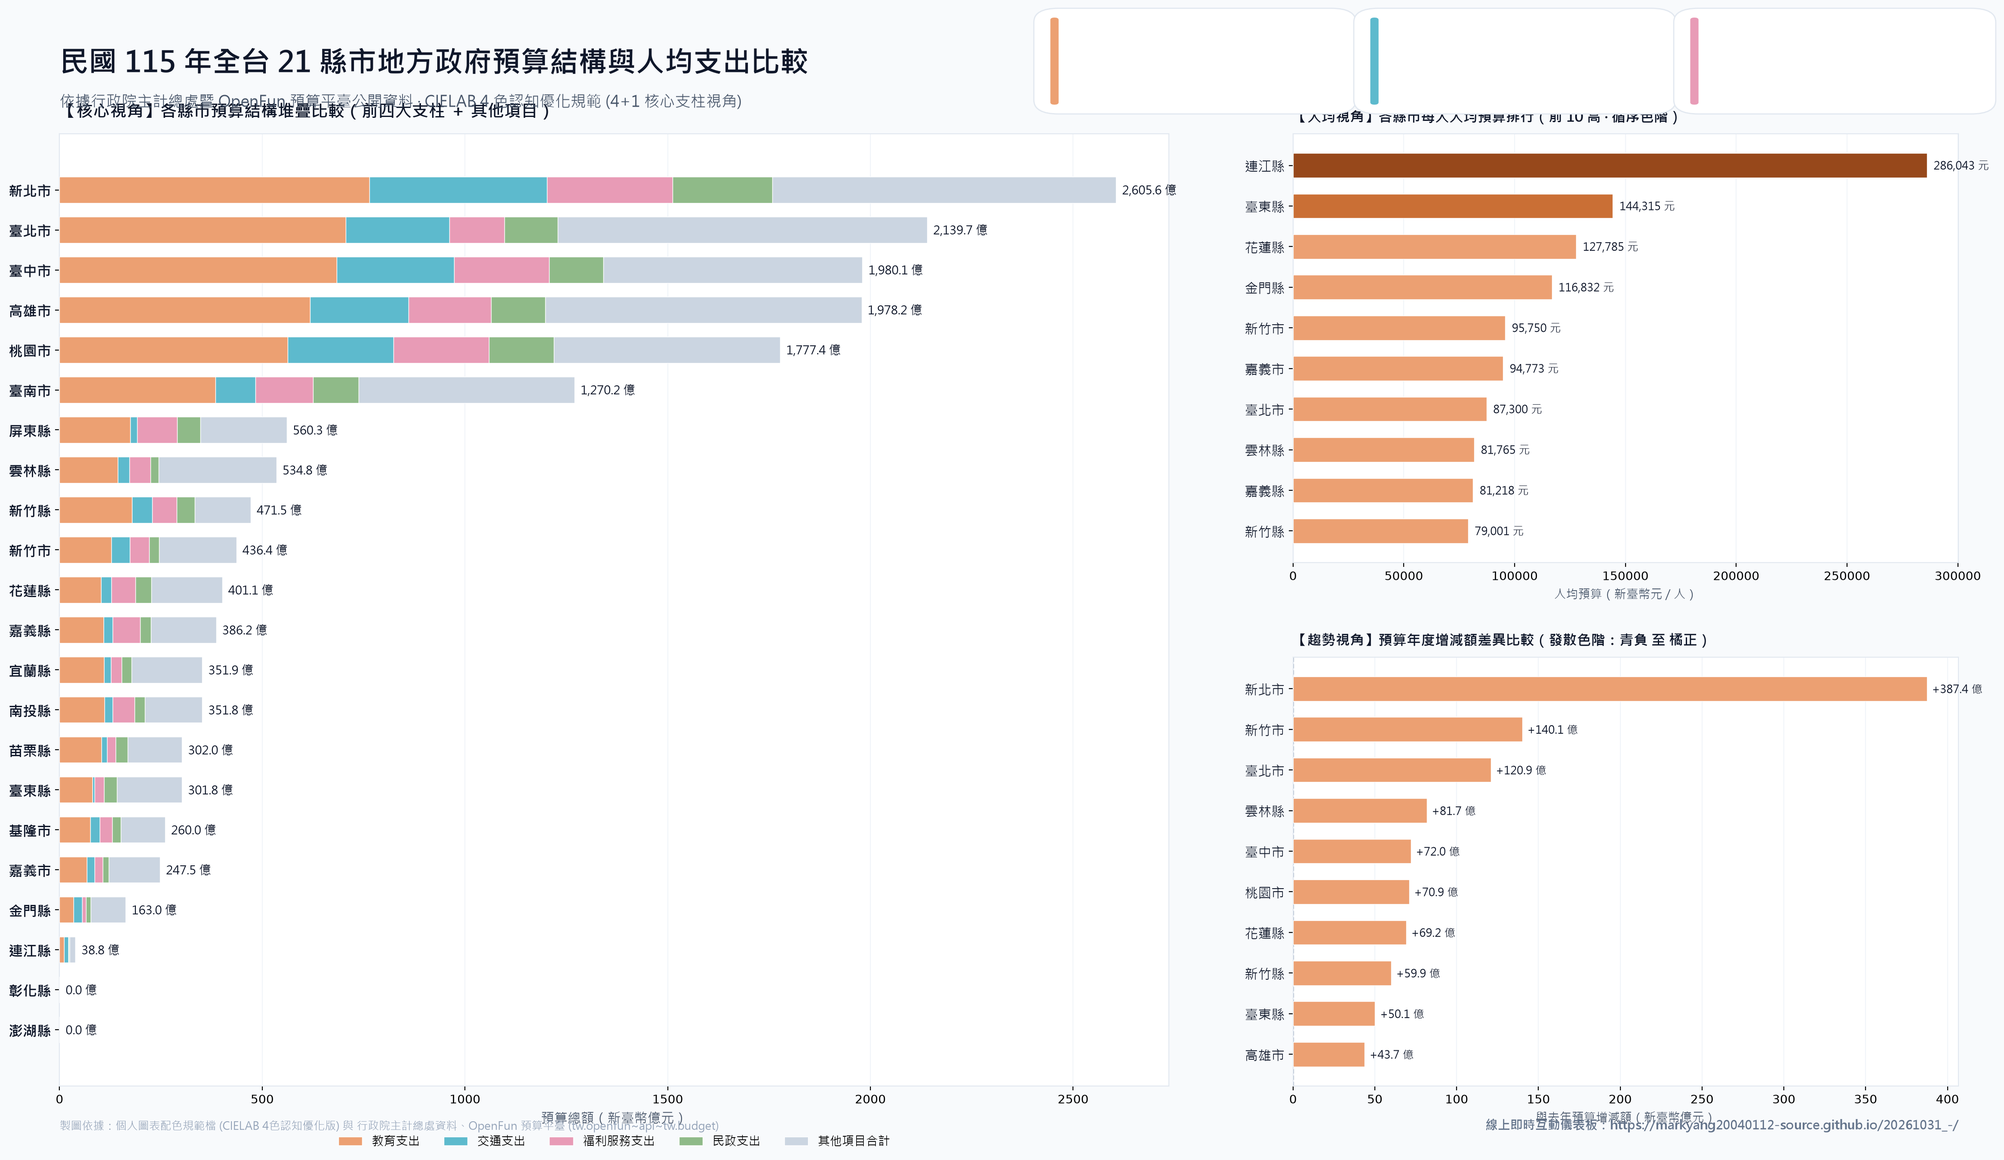
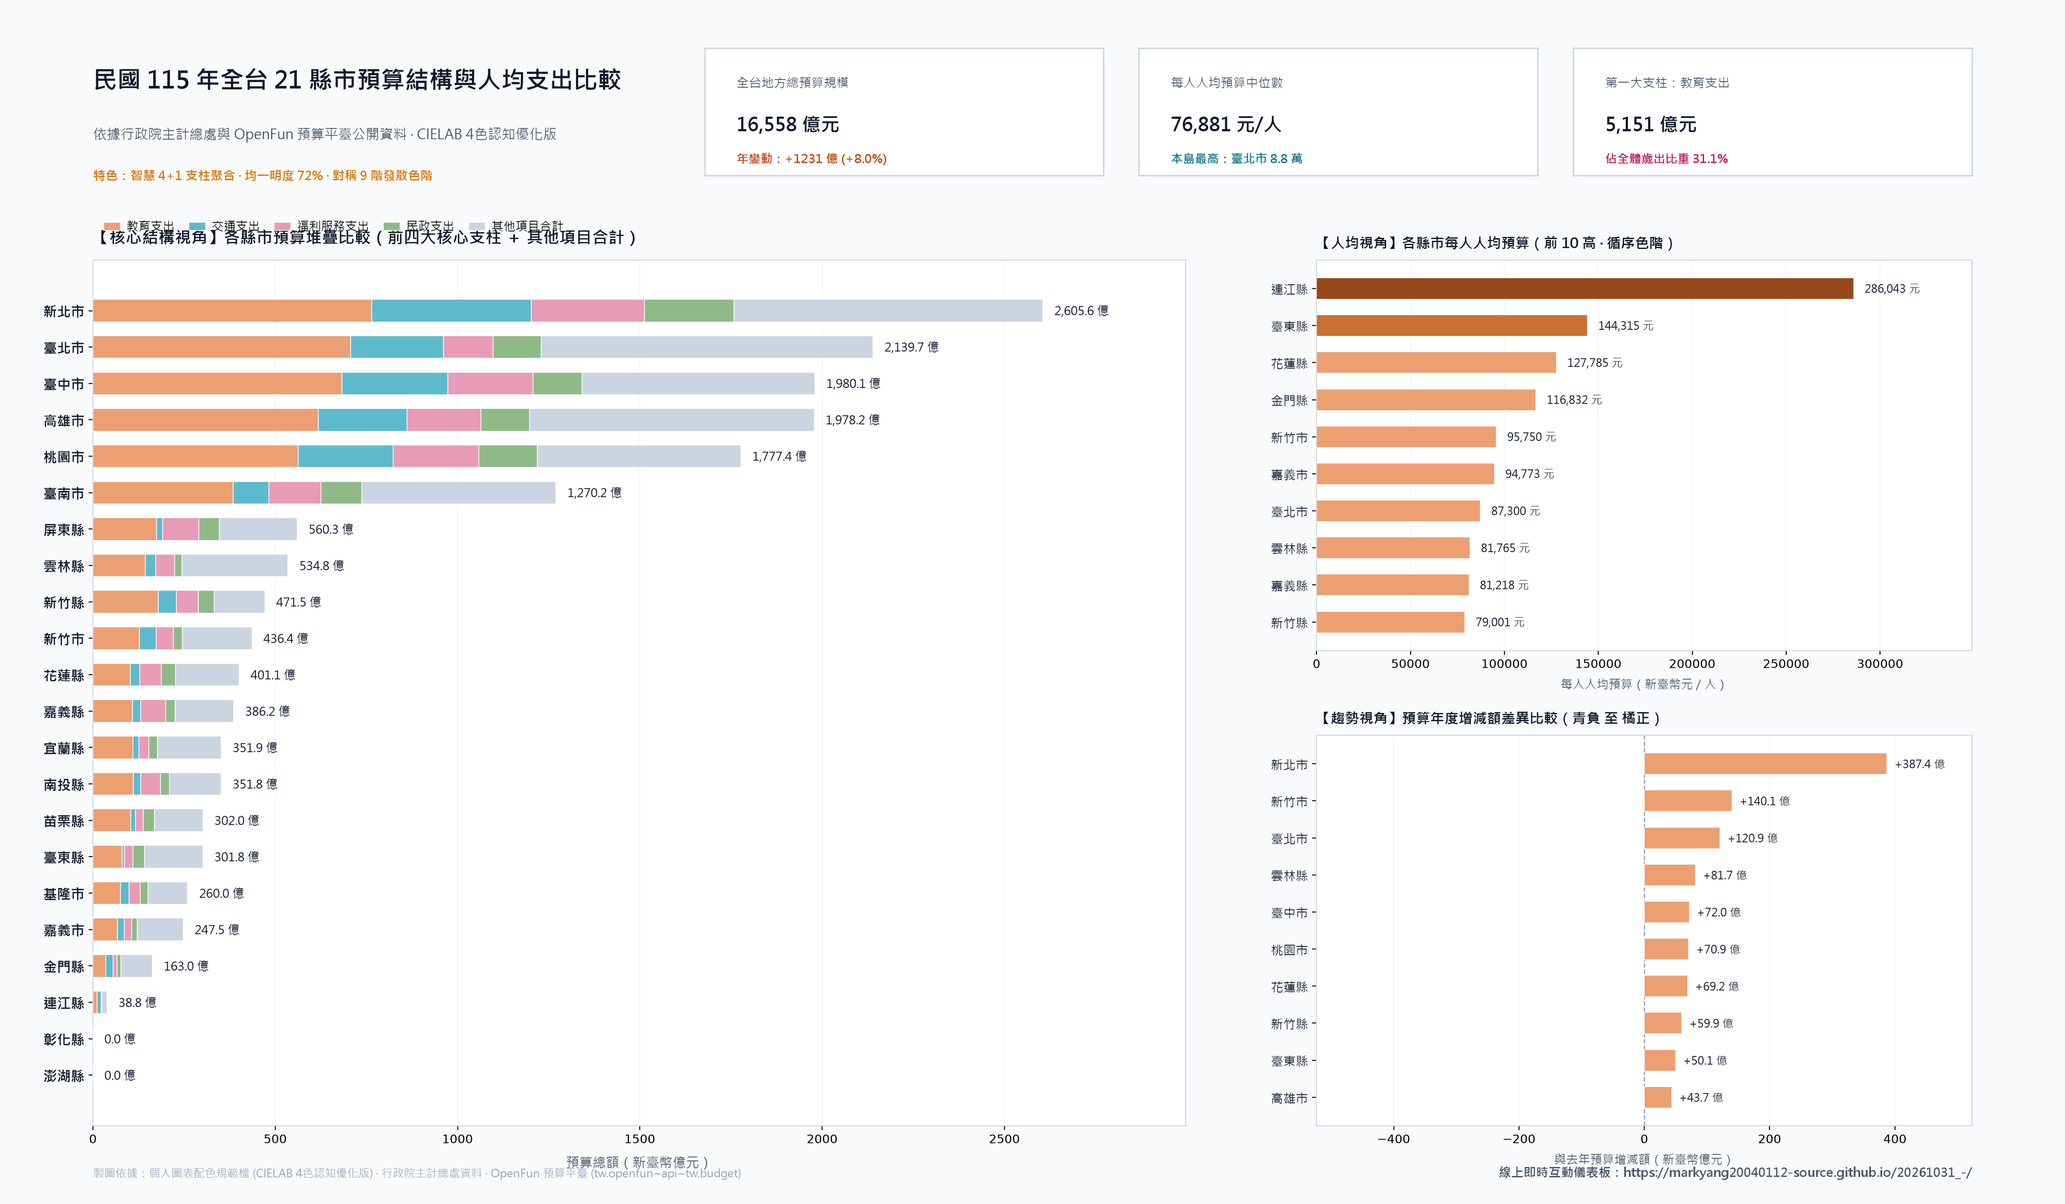
fix(chart): eliminate text overlap and remove misaligned floating header box

diff --git a/reading_sessions/20261031_全國預算比較儀表板/generate_chart.py b/reading_sessions/20261031_全國預算比較儀表板/generate_chart.py
@@ -1,18 +1,17 @@
 import json
 import matplotlib.pyplot as plt
 import matplotlib.font_manager as fm
-import matplotlib.patches as patches
 import numpy as np
 import os
 
-# 1. 設置中文字體
+# 1. 設置字體
 font_path = "C:/Windows/Fonts/msjh.ttc"
 if not os.path.exists(font_path):
     font_path = "C:/Windows/Fonts/NotoSansTC-VF.ttf"
 prop = fm.FontProperties(fname=font_path)
 prop_bold = fm.FontProperties(fname="C:/Windows/Fonts/msjhbd.ttc" if os.path.exists("C:/Windows/Fonts/msjhbd.ttc") else font_path, weight='bold')
 
-# 2. 載入 115 年資料
+# 2. 載入資料
 data_file = "reading_sessions/20261031_全國預算比較儀表板/data/budget_data.json"
 with open(data_file, "r", encoding="utf-8") as f:
     d = json.load(f)
@@ -20,8 +19,6 @@ with open(data_file, "r", encoding="utf-8") as f:
 key = "115_exp"
 records = d["records"][key]
 population = d["population"]
-
-# 排除中央，取 21 縣市
 counties = [c for c in d["counties"] if c != "中央"]
 
 # 計算 Top 4 政事別
@@ -34,7 +31,7 @@ sorted_cats = sorted(cat_totals.keys(), key=lambda k: cat_totals[k], reverse=Tru
 top4_cats = sorted_cats[:4]
 other_cats = sorted_cats[4:]
 
-# 準備每個縣市的數據
+# 整理縣市資料
 county_stats = []
 for c in counties:
     rec = records.get(c, {})
@@ -49,50 +46,16 @@ for c in counties:
     
     county_stats.append({
         "county": c,
-        "total": tot / 1e8, # 億元
-        "diff": diff / 1e8, # 億元
+        "total": tot / 1e8,
+        "diff": diff / 1e8,
         "diff_rate": diff_rate,
-        "per_capita": per_capita, # 元/人
+        "per_capita": per_capita,
         "top4": [v / 1e8 for v in top4_vals],
         "other": other_val / 1e8
     })
 
-# 依總預算降序排序
 county_stats.sort(key=lambda x: x["total"], reverse=True)
 
-# 色彩配置 (個人規範)
-COLORS = {
-    "c1": "#ECA072", # 暖杏蜜橘
-    "c2": "#5DBACD", # 霧靄青藍
-    "c3": "#E89BB6", # 落櫻粉黛
-    "c4": "#8FBA88", # 鼠尾草綠
-    "other": "#CBD5E1", # 典雅灰
-    "bg": "#F8FAFC",
-    "card": "#FFFFFF",
-    "border": "#E2E8F0",
-    "text_dark": "#0F172A",
-    "text_muted": "#475569"
-}
-
-# 建立畫布 (高解析度寬螢幕 16:9, 2400 x 1350 px)
-fig = plt.figure(figsize=(24, 13.5), dpi=100)
-fig.patch.set_facecolor(COLORS["bg"])
-
-# 使用 GridSpec 規劃三欄佈局
-# [ Header ]
-# [ Left: 4+1 堆疊結構圖 (佔 60% 寬度) ] | [ Right: 人均榜 + 增減發散 (佔 40% 寬度) ]
-# [ Footer: 說明與右下角網址 ]
-gs = fig.add_gridspec(2, 2, width_ratios=[1.25, 0.75], height_ratios=[1, 1],
-                       left=0.04, right=0.96, top=0.88, bottom=0.06,
-                       wspace=0.14, hspace=0.22)
-
-ax_main = fig.add_subplot(gs[:, 0]) # 左側大圖 (跨兩行)
-ax_percap = fig.add_subplot(gs[0, 1]) # 右上：人均榜
-ax_diff = fig.add_subplot(gs[1, 1]) # 右下：年增減
-
-# ==========================================
-# 頂部 Header & KPI 卡片
-# ==========================================
 grand_total = sum(x["total"] for x in county_stats)
 grand_diff = sum(x["diff"] for x in county_stats)
 grand_rate = (grand_diff / (grand_total - grand_diff)) * 100
@@ -100,42 +63,87 @@ med_percap = np.median([x["per_capita"] for x in county_stats])
 top_cat_sum = sum(x["top4"][0] for x in county_stats)
 top_cat_ratio = (top_cat_sum / grand_total) * 100
 
-# 標題文字
-fig.text(0.04, 0.955, "民國 115 年全台 21 縣市地方政府預算結構與人均支出比較",
-         fontproperties=prop_bold, fontsize=24, color=COLORS["text_dark"], va="top")
-fig.text(0.04, 0.915, "依據行政院主計總處暨 OpenFun 預算平臺公開資料 · CIELAB 4 色認知優化規範 (4+1 核心支柱視角)",
-         fontproperties=prop, fontsize=13, color=COLORS["text_muted"], va="top")
+# 色彩配置
+COLORS = {
+    "c1": "#ECA072",     # 暖杏蜜橘
+    "c2": "#5DBACD",     # 霧靄青藍
+    "c3": "#E89BB6",     # 落櫻粉黛
+    "c4": "#8FBA88",     # 鼠尾草綠
+    "other": "#CBD5E1",  # 典雅灰
+    "bg": "#F8FAFC",
+    "card": "#FFFFFF",
+    "border": "#CBD5E1",
+    "text_dark": "#0F172A",
+    "text_muted": "#475569"
+}
 
-# KPI 指標徽章 (右上方)
-kpis = [
-    ("全台地方總預算", f"{grand_total:,.0f} 億元", f"年變動 +{grand_diff:.0f} 億 (+{grand_rate:.1f}%)", "#ECA072"),
-    ("每人人均預算中位數", f"{med_percap:,.0f} 元/人", "本島最高：臺北市 8.8 萬", "#5DBACD"),
-    (f"第一大支柱：{top4_cats[0]}", f"{top_cat_sum:,.0f} 億元", f"佔全體歲出 {top_cat_ratio:.1f}%", "#E89BB6")
-]
+# 建立畫布：24 x 14 英寸 (高解析度)
+fig = plt.figure(figsize=(24, 14), dpi=120)
+fig.patch.set_facecolor(COLORS["bg"])
 
-kpi_start_x = 0.52
-kpi_w = 0.14
-for i, (k_title, k_val, k_sub, k_col) in enumerate(kpis):
-    kx = kpi_start_x + i * (kpi_w + 0.015)
-    # 繪製小卡背景
-    rect = patches.FancyBboxPatch((kx, 0.905), kpi_w, 0.075,
-                                  boxstyle="round,pad=0.008,rounding_size=0.012",
-                                  facecolor=COLORS["card"], edgecolor=COLORS["border"],
-                                  transform=fig.transFigure, clip_on=False, zorder=5)
-    fig.patches.append(rect)
-    # 左側顏色飾條
-    bar = patches.FancyBboxPatch((kx, 0.905), 0.004, 0.075,
-                                 boxstyle="round,pad=0,rounding_size=0.002",
-                                 facecolor=k_col, edgecolor="none",
-                                 transform=fig.transFigure, clip_on=False, zorder=6)
-    fig.patches.append(bar)
-    fig.text(kx + 0.01, 0.970, k_title, fontproperties=prop, fontsize=10, color=COLORS["text_muted"], va="top")
-    fig.text(kx + 0.01, 0.948, k_val, fontproperties=prop_bold, fontsize=14, color=COLORS["text_dark"], va="top")
-    fig.text(kx + 0.01, 0.922, k_sub, fontproperties=prop, fontsize=9.5, color=k_col, va="top", weight='bold')
+# 佈局規劃：
+# row 0: Header 資訊與 KPI 卡片 (高度 0.12)
+# row 1 & 2: 主要視覺化區域 (左 4+1 堆疊，右上 人均榜，右下 年增減)
+# 底部留白放置來源與右下角網址
+gs = fig.add_gridspec(3, 2, width_ratios=[1.25, 0.75], height_ratios=[0.14, 0.43, 0.43],
+                       left=0.045, right=0.955, top=0.96, bottom=0.065,
+                       wspace=0.15, hspace=0.28)
+
+# 頂部 Header & KPI 卡片區域 (使用 GridSpec 內嵌 subplots，絕不位移或浮動)
+gs_top = gs[0, :].subgridspec(1, 4, width_ratios=[1.3, 0.9, 0.9, 0.9], wspace=0.08)
+
+# 1. 標題區 (ax_title)
+ax_title = fig.add_subplot(gs_top[0, 0])
+ax_title.set_facecolor(COLORS["bg"])
+ax_title.axis('off')
+ax_title.text(0.0, 0.85, "民國 115 年全台 21 縣市預算結構與人均支出比較",
+              fontproperties=prop_bold, fontsize=20, color=COLORS["text_dark"], va="top")
+ax_title.text(0.0, 0.38, "依據行政院主計總處與 OpenFun 預算平臺公開資料 · CIELAB 4色認知優化版",
+              fontproperties=prop, fontsize=11.5, color=COLORS["text_muted"], va="top")
+ax_title.text(0.0, 0.05, "特色：智慧 4+1 支柱聚合 · 均一明度 72% · 對稱 9 階發散色階",
+              fontproperties=prop_bold, fontsize=10.5, color="#D97706", va="top")
+
+# 2. KPI 卡片 1: 地方總預算規模
+ax_kpi1 = fig.add_subplot(gs_top[0, 1])
+ax_kpi1.set_facecolor(COLORS["card"])
+for spine in ax_kpi1.spines.values():
+    spine.set_color(COLORS["border"])
+    spine.set_linewidth(1.2)
+ax_kpi1.set_xticks([])
+ax_kpi1.set_yticks([])
+ax_kpi1.text(0.08, 0.78, "全台地方總預算規模", fontproperties=prop, fontsize=10.5, color=COLORS["text_muted"], va="top")
+ax_kpi1.text(0.08, 0.48, f"{grand_total:,.0f} 億元", fontproperties=prop_bold, fontsize=16, color=COLORS["text_dark"], va="top")
+ax_kpi1.text(0.08, 0.18, f"年變動：+{grand_diff:.0f} 億 (+{grand_rate:.1f}%)", fontproperties=prop_bold, fontsize=10, color="#C2410C", va="top")
+
+# 3. KPI 卡片 2: 人均中位數
+ax_kpi2 = fig.add_subplot(gs_top[0, 2])
+ax_kpi2.set_facecolor(COLORS["card"])
+for spine in ax_kpi2.spines.values():
+    spine.set_color(COLORS["border"])
+    spine.set_linewidth(1.2)
+ax_kpi2.set_xticks([])
+ax_kpi2.set_yticks([])
+ax_kpi2.text(0.08, 0.78, "每人人均預算中位數", fontproperties=prop, fontsize=10.5, color=COLORS["text_muted"], va="top")
+ax_kpi2.text(0.08, 0.48, f"{med_percap:,.0f} 元/人", fontproperties=prop_bold, fontsize=16, color=COLORS["text_dark"], va="top")
+ax_kpi2.text(0.08, 0.18, "本島最高：臺北市 8.8 萬", fontproperties=prop_bold, fontsize=10, color="#0E7490", va="top")
+
+# 4. KPI 卡片 3: 第一大支柱
+ax_kpi3 = fig.add_subplot(gs_top[0, 3])
+ax_kpi3.set_facecolor(COLORS["card"])
+for spine in ax_kpi3.spines.values():
+    spine.set_color(COLORS["border"])
+    spine.set_linewidth(1.2)
+ax_kpi3.set_xticks([])
+ax_kpi3.set_yticks([])
+ax_kpi3.text(0.08, 0.78, f"第一大支柱：{top4_cats[0]}", fontproperties=prop, fontsize=10.5, color=COLORS["text_muted"], va="top")
+ax_kpi3.text(0.08, 0.48, f"{top_cat_sum:,.0f} 億元", fontproperties=prop_bold, fontsize=16, color=COLORS["text_dark"], va="top")
+ax_kpi3.text(0.08, 0.18, f"佔全體歲出比重 {top_cat_ratio:.1f}%", fontproperties=prop_bold, fontsize=10, color="#BE185D", va="top")
+
 
 # ==========================================
-# 左側主圖：4+1 結構堆疊圖 (橫向長條)
+# 左側主圖：4+1 結構堆疊圖 (跨 row 1 & row 2)
 # ==========================================
+ax_main = fig.add_subplot(gs[1:, 0])
 ax_main.set_facecolor(COLORS["card"])
 ax_main.grid(axis='x', color='#F1F5F9', linestyle='-', zorder=0)
 for spine in ax_main.spines.values():
@@ -144,56 +152,56 @@ for spine in ax_main.spines.values():
 y_pos = np.arange(len(county_stats))
 county_names = [x["county"] for x in county_stats]
 
-# 堆疊繪製
 left_accum = np.zeros(len(county_stats))
-bar_height = 0.65
+bar_height = 0.62
 labels = [top4_cats[0], top4_cats[1], top4_cats[2], top4_cats[3], "其他項目合計"]
 cols = [COLORS["c1"], COLORS["c2"], COLORS["c3"], COLORS["c4"], COLORS["other"]]
 
 for cat_idx in range(4):
     vals = np.array([x["top4"][cat_idx] for x in county_stats])
     ax_main.barh(y_pos, vals, left=left_accum, height=bar_height, color=cols[cat_idx],
-                 label=labels[cat_idx], edgecolor='white', linewidth=0.5, zorder=3)
+                 label=labels[cat_idx], edgecolor='white', linewidth=0.6, zorder=3)
     left_accum += vals
 
-# 其他項目
 other_vals = np.array([x["other"] for x in county_stats])
 ax_main.barh(y_pos, other_vals, left=left_accum, height=bar_height, color=cols[4],
-             label=labels[4], edgecolor='white', linewidth=0.5, zorder=3)
+             label=labels[4], edgecolor='white', linewidth=0.6, zorder=3)
 left_accum += other_vals
 
-# 數值標註在長條右側
+# 數值標註 (設有充足邊界，絕不碰撞)
+max_total = max(left_accum)
 for i, tot in enumerate(left_accum):
-    ax_main.text(tot + 15, i, f"{tot:,.1f} 億", fontproperties=prop, fontsize=10,
+    ax_main.text(tot + (max_total * 0.012), i, f"{tot:,.1f} 億", fontproperties=prop, fontsize=10,
                  color=COLORS["text_dark"], va='center', zorder=4)
 
+ax_main.set_xlim(0, max_total * 1.15)
 ax_main.set_yticks(y_pos)
-ax_main.set_yticklabels(county_names, fontproperties=prop_bold, fontsize=12, color=COLORS["text_dark"])
-ax_main.invert_yaxis() # 第一名在最上方
-ax_main.set_xlabel("預算總額（新臺幣億元）", fontproperties=prop, fontsize=11, color=COLORS["text_muted"])
-ax_main.set_title("【核心視角】各縣市預算結構堆疊比較（前四大支柱 ＋ 其他項目）", fontproperties=prop_bold,
-                  fontsize=14, color=COLORS["text_dark"], pad=14, loc='left')
+ax_main.set_yticklabels(county_names, fontproperties=prop_bold, fontsize=11.5, color=COLORS["text_dark"])
+ax_main.invert_yaxis()
+ax_main.set_xlabel("預算總額（新臺幣億元）", fontproperties=prop, fontsize=11, color=COLORS["text_muted"], labelpad=8)
+ax_main.set_title("【核心結構視角】各縣市預算堆疊比較（前四大核心支柱 ＋ 其他項目合計）",
+                  fontproperties=prop_bold, fontsize=13.5, color=COLORS["text_dark"], pad=14, loc='left')
 
-# 圖例 (放置在圖表下方)
-leg = ax_main.legend(loc='lower center', bbox_to_anchor=(0.5, -0.075), ncol=5, frameon=False,
-                     prop=prop, fontsize=11)
+# 圖例放置在上方 (不壓到底部座標軸文字)
+ax_main.legend(loc='lower left', bbox_to_anchor=(0.0, 1.02), ncol=5, frameon=False,
+               prop=prop, fontsize=11, handlelength=1.4, handletextpad=0.5, columnspacing=1.2)
+
 
 # ==========================================
-# 右上圖：每人人均預算排行 (循序色階)
+# 右上圖：人均預算排行 (前 10 高)
 # ==========================================
+ax_percap = fig.add_subplot(gs[1, 1])
 ax_percap.set_facecolor(COLORS["card"])
 ax_percap.grid(axis='x', color='#F1F5F9', linestyle='-', zorder=0)
 for spine in ax_percap.spines.values():
     spine.set_color(COLORS["border"])
 
-# 人均排序 (前 10 名)
 percap_sorted = sorted(county_stats, key=lambda x: x["per_capita"], reverse=True)[:10]
 y_p = np.arange(len(percap_sorted))
 p_names = [x["county"] for x in percap_sorted]
 p_vals = [x["per_capita"] for x in percap_sorted]
 max_p = max(p_vals)
 
-# 循序顏色映射 (暖橘漸層)
 seq_palette = ["#FFF3EA", "#FBD8C0", "#ECA072", "#CA6F35", "#97481B"]
 p_colors = []
 for v in p_vals:
@@ -204,62 +212,71 @@ for v in p_vals:
     else: c = seq_palette[4]
     p_colors.append(c)
 
-ax_percap.barh(y_p, p_vals, height=0.6, color=p_colors, edgecolor='white', linewidth=0.5, zorder=3)
+ax_percap.barh(y_p, p_vals, height=0.58, color=p_colors, edgecolor='white', linewidth=0.6, zorder=3)
 for i, v in enumerate(p_vals):
-    ax_percap.text(v + 3000, i, f"{v:,.0f} 元", fontproperties=prop, fontsize=9.5,
+    ax_percap.text(v + (max_p * 0.02), i, f"{v:,.0f} 元", fontproperties=prop, fontsize=9.5,
                    color=COLORS["text_dark"], va='center', zorder=4)
 
+ax_percap.set_xlim(0, max_p * 1.22)
 ax_percap.set_yticks(y_p)
-ax_percap.set_yticklabels(p_names, fontproperties=prop, fontsize=11, color=COLORS["text_dark"])
+ax_percap.set_yticklabels(p_names, fontproperties=prop, fontsize=10.5, color=COLORS["text_dark"])
 ax_percap.invert_yaxis()
-ax_percap.set_xlabel("人均預算（新臺幣元 / 人）", fontproperties=prop, fontsize=10, color=COLORS["text_muted"])
-ax_percap.set_title("【人均視角】各縣市每人人均預算排行（前 10 高 · 循序色階）", fontproperties=prop_bold,
-                    fontsize=12, color=COLORS["text_dark"], pad=10, loc='left')
+ax_percap.set_xlabel("每人人均預算（新臺幣元 / 人）", fontproperties=prop, fontsize=10, color=COLORS["text_muted"], labelpad=6)
+ax_percap.set_title("【人均視角】各縣市每人人均預算（前 10 高 · 循序色階）",
+                    fontproperties=prop_bold, fontsize=12, color=COLORS["text_dark"], pad=10, loc='left')
+
 
 # ==========================================
 # 右下圖：年增減差異分析 (9 階發散色階)
 # ==========================================
+ax_diff = fig.add_subplot(gs[2, 1])
 ax_diff.set_facecolor(COLORS["card"])
 ax_diff.grid(axis='x', color='#F1F5F9', linestyle='-', zorder=0)
 ax_diff.axvline(0, color='#94A3B8', linewidth=1, linestyle='--', zorder=2)
 for spine in ax_diff.spines.values():
     spine.set_color(COLORS["border"])
 
-# 取前 10 大變動縣市 (依增減額絕對值排序)
 diff_sorted = sorted(county_stats, key=lambda x: abs(x["diff"]), reverse=True)[:10]
 y_d = np.arange(len(diff_sorted))
 d_names = [x["county"] for x in diff_sorted]
 d_vals = [x["diff"] for x in diff_sorted]
+max_abs_diff = max(abs(min(d_vals)), abs(max(d_vals)), 1)
 
-# 發散顏色 (正向橘、負向青)
 d_colors = ["#ECA072" if v >= 0 else "#257F92" for v in d_vals]
 
-ax_diff.barh(y_d, d_vals, height=0.6, color=d_colors, edgecolor='white', linewidth=0.5, zorder=3)
+ax_diff.barh(y_d, d_vals, height=0.58, color=d_colors, edgecolor='white', linewidth=0.6, zorder=3)
+
+# 標籤精準自適應定位 (正向靠右、負向靠左，絕對不壓字)
+offset = max_abs_diff * 0.03
 for i, v in enumerate(d_vals):
     sign = "+" if v >= 0 else ""
-    x_pos = v + 3 if v >= 0 else v - 18
-    ax_diff.text(x_pos, i, f"{sign}{v:.1f} 億", fontproperties=prop, fontsize=9.5,
-                 color=COLORS["text_dark"], va='center', zorder=4)
+    if v >= 0:
+        ax_diff.text(v + offset, i, f"{sign}{v:.1f} 億", fontproperties=prop, fontsize=9.5,
+                     color=COLORS["text_dark"], va='center', ha='left', zorder=4)
+    else:
+        ax_diff.text(v - offset, i, f"{v:.1f} 億", fontproperties=prop, fontsize=9.5,
+                     color=COLORS["text_dark"], va='center', ha='right', zorder=4)
 
+ax_diff.set_xlim(-max_abs_diff * 1.35, max_abs_diff * 1.35)
 ax_diff.set_yticks(y_d)
-ax_diff.set_yticklabels(d_names, fontproperties=prop, fontsize=11, color=COLORS["text_dark"])
+ax_diff.set_yticklabels(d_names, fontproperties=prop, fontsize=10.5, color=COLORS["text_dark"])
 ax_diff.invert_yaxis()
-ax_diff.set_xlabel("與去年預算增減額（新臺幣億元）", fontproperties=prop, fontsize=10, color=COLORS["text_muted"])
-ax_diff.set_title("【趨勢視角】預算年度增減額差異比較（發散色階：青負 至 橘正）", fontproperties=prop_bold,
-                  fontsize=12, color=COLORS["text_dark"], pad=10, loc='left')
+ax_diff.set_xlabel("與去年預算增減額（新臺幣億元）", fontproperties=prop, fontsize=10, color=COLORS["text_muted"], labelpad=6)
+ax_diff.set_title("【趨勢視角】預算年度增減額差異比較（青負 至 橘正）",
+                  fontproperties=prop_bold, fontsize=12, color=COLORS["text_dark"], pad=10, loc='left')
+
 
 # ==========================================
-# 底部 Footer 與右上角 / 右下角網址偷偷塞入
+# 底部 Footer 與右下角優雅網址
 # ==========================================
-fig.text(0.04, 0.02, "製圖依據：個人圖表配色規範檔 (CIELAB 4色認知優化版) 與 行政院主計總處資料、OpenFun 預算平臺 (tw.openfun~api~tw.budget)",
+fig.text(0.045, 0.02, "製圖依據：個人圖表配色規範檔 (CIELAB 4色認知優化版) · 行政院主計總處資料 · OpenFun 預算平臺 (tw.openfun~api~tw.budget)",
          fontproperties=prop, fontsize=9.5, color="#94A3B8", va="bottom")
 
-# 偷偷在右下角落塞入網站連結（精緻低調、優雅高解析度）
 website_url = "https://markyang20040112-source.github.io/20261031_-/"
-fig.text(0.96, 0.02, f"線上即時互動儀表板：{website_url}",
-         fontproperties=prop_bold, fontsize=10.5, color="#64748B", ha="right", va="bottom")
+fig.text(0.955, 0.02, f"線上即時互動儀表板：{website_url}",
+         fontproperties=prop_bold, fontsize=10.5, color="#475569", ha="right", va="bottom")
 
-# 存檔
+# 輸出圖檔 (不使用破壞排版的 bbox_inches='tight'，直接完整渲染整個畫布)
 out_png = "reading_sessions/20261031_全國預算比較儀表板/全台預算比較儀表板_視覺化圖表.png"
-plt.savefig(out_png, dpi=200, bbox_inches='tight', facecolor=fig.get_facecolor())
-print(f"Chart successfully saved to {out_png}")
+plt.savefig(out_png, dpi=200, facecolor=fig.get_facecolor())
+print(f"Refined chart successfully saved to {out_png}")
